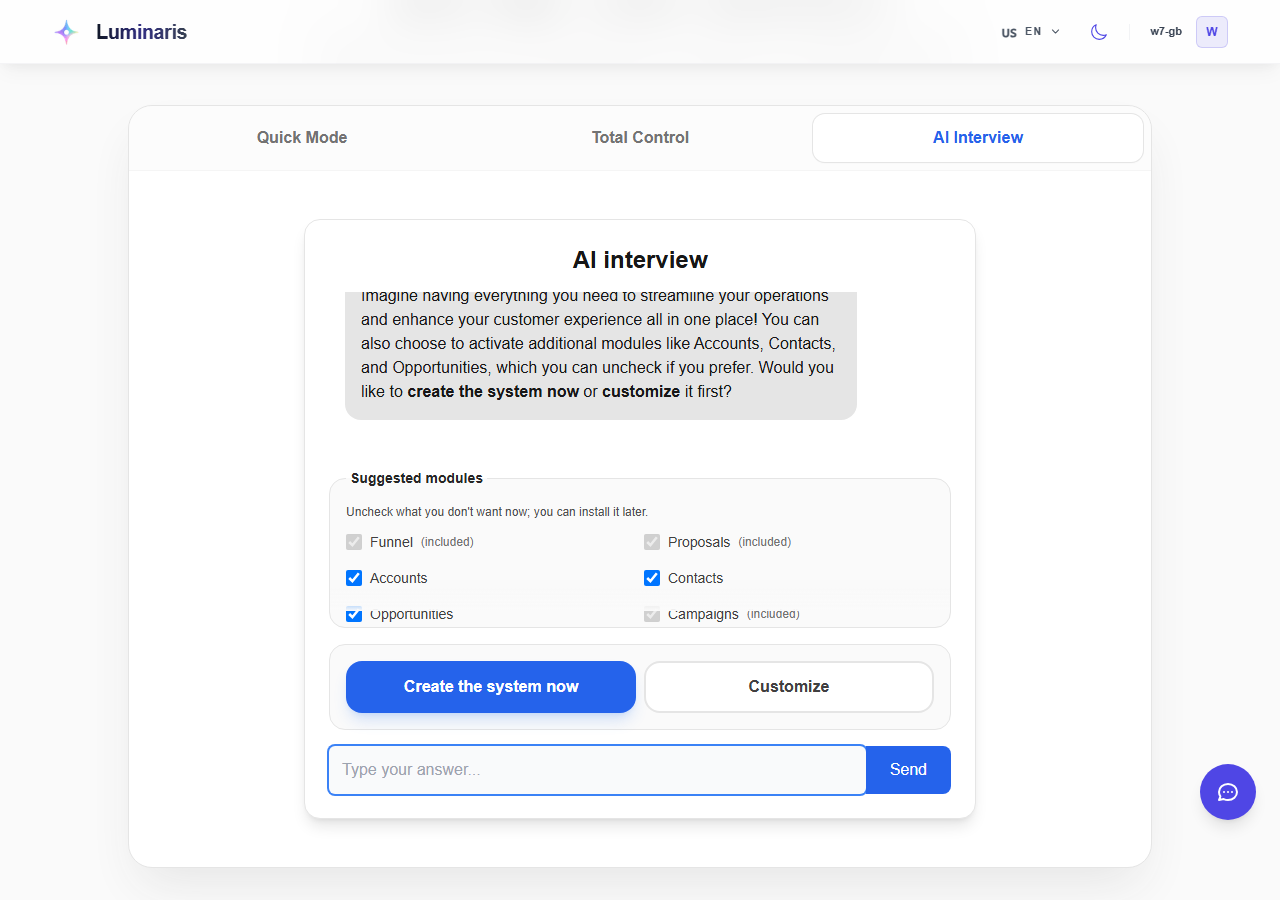
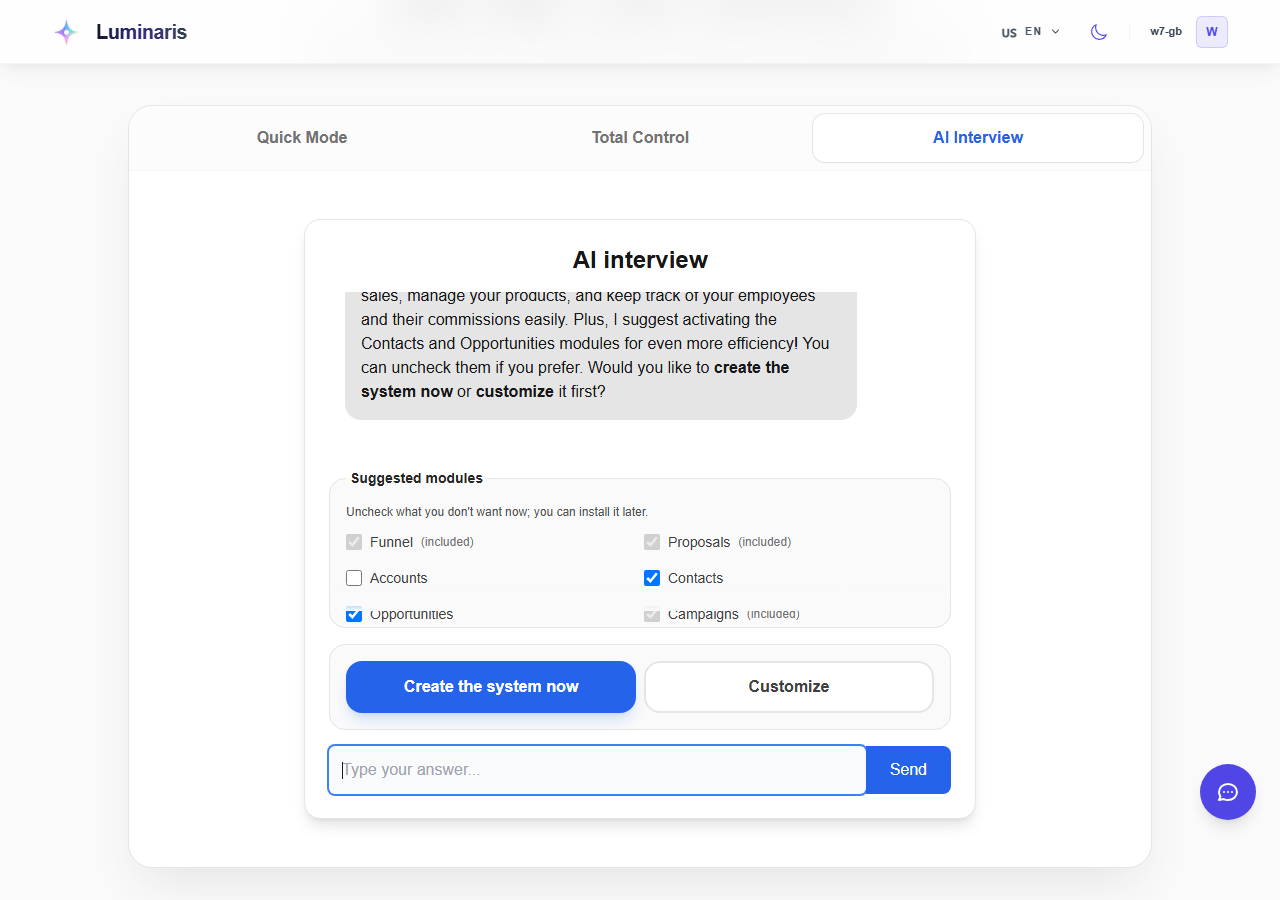
docs(w7): passo 5 reexecutado após a localização do catálogo — PASSOU sem emenda

Changed region(s): [[0.2812, 0.3111, 0.6562, 0.4667], [0.25, 0.6222, 0.2812, 0.6533]]

diff --git a/docs/accounting/RUNBOOK-W7-HIGIENE-WIZARD.md b/docs/accounting/RUNBOOK-W7-HIGIENE-WIZARD.md
@@ -197,7 +197,7 @@ A marca da janela sobreviveu e há 1 navegação: a página não recarregou; o `
 
 **Passo 4 — NÃO REEXECUTADO.** A mudança de código está só no ramo "sem resposta do servidor" (`useAiInterview.ts`); o ramo do 403 (modal "Your system has already been created.") é outro e segue coberto pelo teste `item 4` e pela 1ª execução. Dito aqui para que ninguém leia como reexecutado.
 
-**Passo 5 — PASSOU com a emenda de roteiro** (`w7-gb`, inglês, modo claro). Aba Rápido, Controle Total até "Next: customize tables" e Entrevista até o painel esquerdo: títulos, abas, botões, frases de ajuda, "Suggested modules", "System features", "Core", "Fields: …" em inglês. Textos em português que restam são só os excluídos pela emenda: `ERP para Clínica de Estética`, `Módulo CRM` e `Tabela de <nome>`. [rápido](runbook-evidence/W7-2026-11-11-2/passo5-a-rapido.png) · [controle total](runbook-evidence/W7-2026-11-11-2/passo5-b-controle-total-2.png) · [entrevista](runbook-evidence/W7-2026-11-11-2/passo5-c-entrevista-escolha.png) · [painel esquerdo](runbook-evidence/W7-2026-11-11-2/passo5-c-entrevista-painel-esquerdo.png) ([texto](runbook-evidence/W7-2026-11-11-2/passo5-c-entrevista-painel-esquerdo.txt))
+**Passo 5 — PASSOU com a emenda de roteiro** (`w7-gb`, inglês, modo claro). Aba Rápido, Controle Total até "Next: customize tables" e Entrevista até o painel esquerdo: títulos, abas, botões, frases de ajuda, "Suggested modules", "System features", "Core", "Fields: …" em inglês. (1ª passagem desta execução: restavam só os textos excluídos pela emenda — `ERP para Clínica de Estética`, `Módulo CRM`, `Tabela de <nome>` — e por isso o passo foi reexecutado depois da localização do catálogo, ver "Passo 5 reexecutado" no fim.) [rápido](runbook-evidence/W7-2026-11-11-2/passo5-a-rapido.png) · [controle total](runbook-evidence/W7-2026-11-11-2/passo5-b-controle-total-2.png) · [entrevista](runbook-evidence/W7-2026-11-11-2/passo5-c-entrevista-escolha.png) · [painel esquerdo](runbook-evidence/W7-2026-11-11-2/passo5-c-entrevista-painel-esquerdo.png) ([texto](runbook-evidence/W7-2026-11-11-2/passo5-c-entrevista-painel-esquerdo.txt))
 
 **Passo 6 — PASSOU** (português, `theme=dark`, `class=dark`). Fundos e textos em cinza neutro, cards com cantos arredondados. [rápido](runbook-evidence/W7-2026-11-11-2/passo6-a-rapido-escuro.png) · [controle total](runbook-evidence/W7-2026-11-11-2/passo6-b-controle-total-escuro.png) · [entrevista](runbook-evidence/W7-2026-11-11-2/passo6-c-entrevista-escuro.png). (A 1ª tentativa saiu clara por eu ter alternado o tema duas vezes; refeita com `localStorage.theme=dark` conferido por `eval`.)
 
@@ -208,7 +208,7 @@ A marca da janela sobreviveu e há 1 navegação: a página não recarregou; o `
 **Passo 9 — PASSOU** (português, escuro). Modo Manual: "Novo Campo" aberto, `Alterações salvas com sucesso!`; modo "IA Humanizada": pergunta, resposta e "Proposta da IA / Descartar / Aplicar" em português, cinza neutro, balões arredondados. [novo campo](runbook-evidence/W7-2026-11-11-2/passo9-manual-novo-campo-escuro.png) · [salvo](runbook-evidence/W7-2026-11-11-2/passo9-manual-depois-de-salvar-escuro.png) · [modo IA](runbook-evidence/W7-2026-11-11-2/passo9-modo-ia-escuro.png)
 
 ### Desfecho (execução 2026-11-11, 2ª)
-[x] PASSOU — passos 1–3 e 5–9 com evidência conferindo com o esperado **do roteiro emendado**; o passo 4 não foi reexecutado (declarado acima). O passo 5 só fecha com a emenda; se o dono decidir que o catálogo de presets e o `Tabela de …` devem seguir o idioma, as lacunas `-37cb`/`-f834` reabrem esse passo.
+[x] PASSOU — passos 1–3 e 5–9 com evidência conferindo com o esperado **do roteiro emendado**; o passo 4 não foi reexecutado (declarado acima). (Atualização: o passo 5 foi reexecutado depois da localização do catálogo e passou sem a emenda; ver o fim.) Texto original: o passo 5 só fechava com a emenda; se o dono decidisse que o catálogo de presets e o `Tabela de …` devem seguir o idioma, as lacunas `-37cb`/`-f834` reabrem esse passo.
 
 ### Registro (execução 2026-11-11, 2ª)
 - **Desvios de roteiro:** UI em inglês nos passos 1–3 e 5–8 (idioma padrão do usuário novo); servidor parado por `taskkill` (não Ctrl+C); DevTools → log de rede do runner; passo 4 não reexecutado; modo escuro refeito uma vez (descrito no passo 6).
@@ -216,5 +216,11 @@ A marca da janela sobreviveu e há 1 navegação: a página não recarregou; o `
 - Rastreio: `docs/plano/nos/W7.md` (`estado_detalhe`) atualizado.
 - Assinatura do executor: agente claude-sonnet-5-5, AI tester, sob autorização do dono (chat, 2026-11-11). Atesta a execução e a conferência da evidência; não substitui oráculo humano (a decisão de produto sobre idioma do catálogo e a leitura do passo 5 emendado são do dono).
 
-### Atualização posterior (2026-11-11, mesmo PR) — localização do catálogo
-Decisão do dono (chat, 2026-11-11): *"Sim, localizar"*. Corrigidas `L-20261111-204322-37cb` (`presetText.ts`; `GET /dashboard/presets?locale=`; o front manda o idioma da UI) e `-f834` (`TableExtractor` usa `INTERVIEW_TEXT[locale].tableFallbackDescription`; a sessão da entrevista recebe o `locale`). Verificado por testes (jest unit `localeCatalog.test.ts`, vitest de `features/interview`, `lib/services`), `tsc` e paridade i18n; **o passo 5 não foi reexecutado no navegador depois desta mudança** — o desfecho PASSOU acima vale para o roteiro emendado, e a emenda deixa de ser necessária só depois dessa reexecução.
+### Passo 5 reexecutado depois da localização do catálogo (2026-11-11, mesmo PR) — PASSOU, sem emenda
+Decisão do dono (chat, 2026-11-11): *"Sim, localizar"*. Corrigidas `L-20261111-204322-37cb` (`presetText.ts`; `GET /dashboard/presets?locale=`; o front manda o idioma da UI) e `-f834` (`TableExtractor` usa `INTERVIEW_TEXT[locale].tableFallbackDescription`; a sessão da entrevista recebe o `locale`). Server e front reconstruídos da branch (`npm run build`, `next build`/`next start` em `127.0.0.1:4571/3571`), mesmo banco descartável, usuário `w7-gb`, inglês, modo claro (`theme=light`, `lang=en`).
+```text
+grep -c "Tabela de\|ERP para\|Módulo CRM\|CRM completo"  passo5-a-rapido.txt passo5-b-controle-total-2.txt passo5-c-entrevista-escolha.txt passo5-c-entrevista-painel-esquerdo.txt   ->  0 · 0 · 0 · 0
+(tela, aba Rápido)  Advanced Beauty Salon ERP · Aesthetic Clinic ERP · CRM Module
+(tela, painel esquerdo)  System: Advanced Beauty Salon ERP · Table of LeadPipelines · Table of LeadStages · Table of Leads
+```
+Os arquivos `passo5-*` da pasta de evidência foram regravados por esta passagem: [rápido](runbook-evidence/W7-2026-11-11-2/passo5-a-rapido.png) · [controle total](runbook-evidence/W7-2026-11-11-2/passo5-b-controle-total-2.png) · [entrevista](runbook-evidence/W7-2026-11-11-2/passo5-c-entrevista-escolha.png) · [painel esquerdo](runbook-evidence/W7-2026-11-11-2/passo5-c-entrevista-painel-esquerdo.png). A emenda do passo 5 deixa de ser necessária; o texto do roteiro volta a valer como foi escrito (o servidor continua sem traduzir os rótulos de tabela/campo, que o roteiro nunca cobriu). Assinatura: agente claude-sonnet-5-5, AI tester, sob autorização do dono (chat, 2026-11-11).

diff --git a/docs/plano/nos/W7.md b/docs/plano/nos/W7.md
@@ -4,7 +4,7 @@ tipo: "plataforma"
 dominio: "plataforma"
 titulo: "Higiene do FE do wizard"
 estado: "done"
-estado_detalhe: "#708, #716, #717 e #722 mergeados em 15/10 (BRIEF completo em main): PR-1 #716 (itens 1–5: saudação 1× em StrictMode, sem Debug, retry reenvia o pedido, erro classificado), PR-2 #717 (i18n + neutral-* fora do painel direito), PR-3 #722 (painel direito inteiro — ADR-W6 D2 manteve o AIChatMode; o 404 de CustomizeFields segue até o FE do W6). Sign-off de browser: 1ª execução do AI tester (11/11) FALHOU no passo 5; 2ª execução (11/11, branch do fix, build de produção) PASSOU nos passos 1–3 e 5–9 com roteiro emendado no passo 5 (o passo 4 não foi reexecutado); corpo do modal de rede agora traduzido (`onboardingErrorNetwork`); nome/descrição de preset e `Tabela de …` esperam resposta do dono (lacunas `-37cb`/`-f834`); `CustomizeFields` sem `locale` na caixa. Falta o julgamento humano (RUNBOOK-W7 passos 1–9 pelo dono) · 11/11: rodado por AI tester (sonnet-5-5) em build de produção com OPENAI_API_KEY real — FALHOU no passo 5: passos 1–4 (PR-1) PASSARAM; na UI em inglês ainda há português vindo do servidor (nomes/descrições dos presets nas abas Rápido/Controle Total; 'Tabela de …' no painel esquerdo; mensagem de rede no modal de erro) — lacunas L-20261111-204322-f834/-37cb/-8a05 na caixa do maestro; passos 6–9 não executados"
+estado_detalhe: "#708, #716, #717 e #722 mergeados em 15/10 (BRIEF completo em main): PR-1 #716 (itens 1–5: saudação 1× em StrictMode, sem Debug, retry reenvia o pedido, erro classificado), PR-2 #717 (i18n + neutral-* fora do painel direito), PR-3 #722 (painel direito inteiro — ADR-W6 D2 manteve o AIChatMode; o 404 de CustomizeFields segue até o FE do W6). Sign-off de browser: 1ª execução do AI tester (11/11) FALHOU no passo 5; 2ª execução (11/11, branch do fix, build de produção) PASSOU nos passos 1–3 e 5–9 com roteiro emendado no passo 5 (o passo 4 não foi reexecutado); corpo do modal de rede agora traduzido (`onboardingErrorNetwork`); nome/descrição de preset e `Tabela de …` agora seguem o idioma da UI (dono: "Sim, localizar") e o passo 5 foi reexecutado sem emenda; `CustomizeFields` sem `locale` na caixa. Falta o julgamento humano (RUNBOOK-W7 passos 1–9 pelo dono) · 11/11: rodado por AI tester (sonnet-5-5) em build de produção com OPENAI_API_KEY real — FALHOU no passo 5: passos 1–4 (PR-1) PASSARAM; na UI em inglês ainda há português vindo do servidor (nomes/descrições dos presets nas abas Rápido/Controle Total; 'Tabela de …' no painel esquerdo; mensagem de rede no modal de erro) — lacunas L-20261111-204322-f834/-37cb/-8a05 na caixa do maestro; passos 6–9 não executados"
 autorizacao: "dono, chat, 2026-10-15: \"executa\" sobre o BRIEF FE-INCR-WIZARD-HYGIENE (#708) · dono, chat, 2026-10-15: \"Autorizo planejar o BRIEF do W7 — sessao-planejamento, sem código, sem 'executa'\" + questionário F-W7-1..3 (a) ([[D-2026-10-15-W7-HIGIENE-WIZARD]])"
 ancora_sdd: "§M5.1 Bloco A ONB"
 atualizado: "2026-11-11"
@@ -12,7 +12,7 @@ prs: ["#708", "#716", "#717", "#722"]
 ---
 # W7 — Higiene do FE do wizard
 
-**Estado:** `done` — #708, #716, #717 e #722 mergeados em 15/10 (BRIEF completo em main): PR-1 #716 (itens 1–5: saudação 1× em StrictMode, sem Debug, retry reenvia o pedido, erro classificado), PR-2 #717 (i18n + neutral-* fora do painel direito), PR-3 #722 (painel direito inteiro — ADR-W6 D2 manteve o AIChatMode; o 404 de CustomizeFields segue até o FE do W6). Sign-off de browser: 1ª execução do AI tester (11/11) FALHOU no passo 5; 2ª execução (11/11, branch do fix, build de produção) PASSOU nos passos 1–3 e 5–9 com roteiro emendado no passo 5 (o passo 4 não foi reexecutado); corpo do modal de rede agora traduzido (`onboardingErrorNetwork`); nome/descrição de preset e `Tabela de …` esperam resposta do dono (lacunas `-37cb`/`-f834`); `CustomizeFields` sem `locale` na caixa. Falta o julgamento humano (RUNBOOK-W7 passos 1–9 pelo dono)  
+**Estado:** `done` — #708, #716, #717 e #722 mergeados em 15/10 (BRIEF completo em main): PR-1 #716 (itens 1–5: saudação 1× em StrictMode, sem Debug, retry reenvia o pedido, erro classificado), PR-2 #717 (i18n + neutral-* fora do painel direito), PR-3 #722 (painel direito inteiro — ADR-W6 D2 manteve o AIChatMode; o 404 de CustomizeFields segue até o FE do W6). Sign-off de browser: 1ª execução do AI tester (11/11) FALHOU no passo 5; 2ª execução (11/11, branch do fix, build de produção) PASSOU nos passos 1–3 e 5–9 com roteiro emendado no passo 5 (o passo 4 não foi reexecutado); corpo do modal de rede agora traduzido (`onboardingErrorNetwork`); nome/descrição de preset e `Tabela de …` agora seguem o idioma da UI (dono: "Sim, localizar") e o passo 5 foi reexecutado sem emenda; `CustomizeFields` sem `locale` na caixa. Falta o julgamento humano (RUNBOOK-W7 passos 1–9 pelo dono)  
 **Autorização:** dono, chat, 2026-10-15: "executa" sobre o BRIEF FE-INCR-WIZARD-HYGIENE (#708) · dono, chat, 2026-10-15: "Autorizo planejar o BRIEF do W7 — sessao-planejamento, sem código, sem 'executa'" + questionário F-W7-1..3 (a) ([[D-2026-10-15-W7-HIGIENE-WIZARD]])  
 **Depende de:** —  
 **Desbloqueia:** —  
